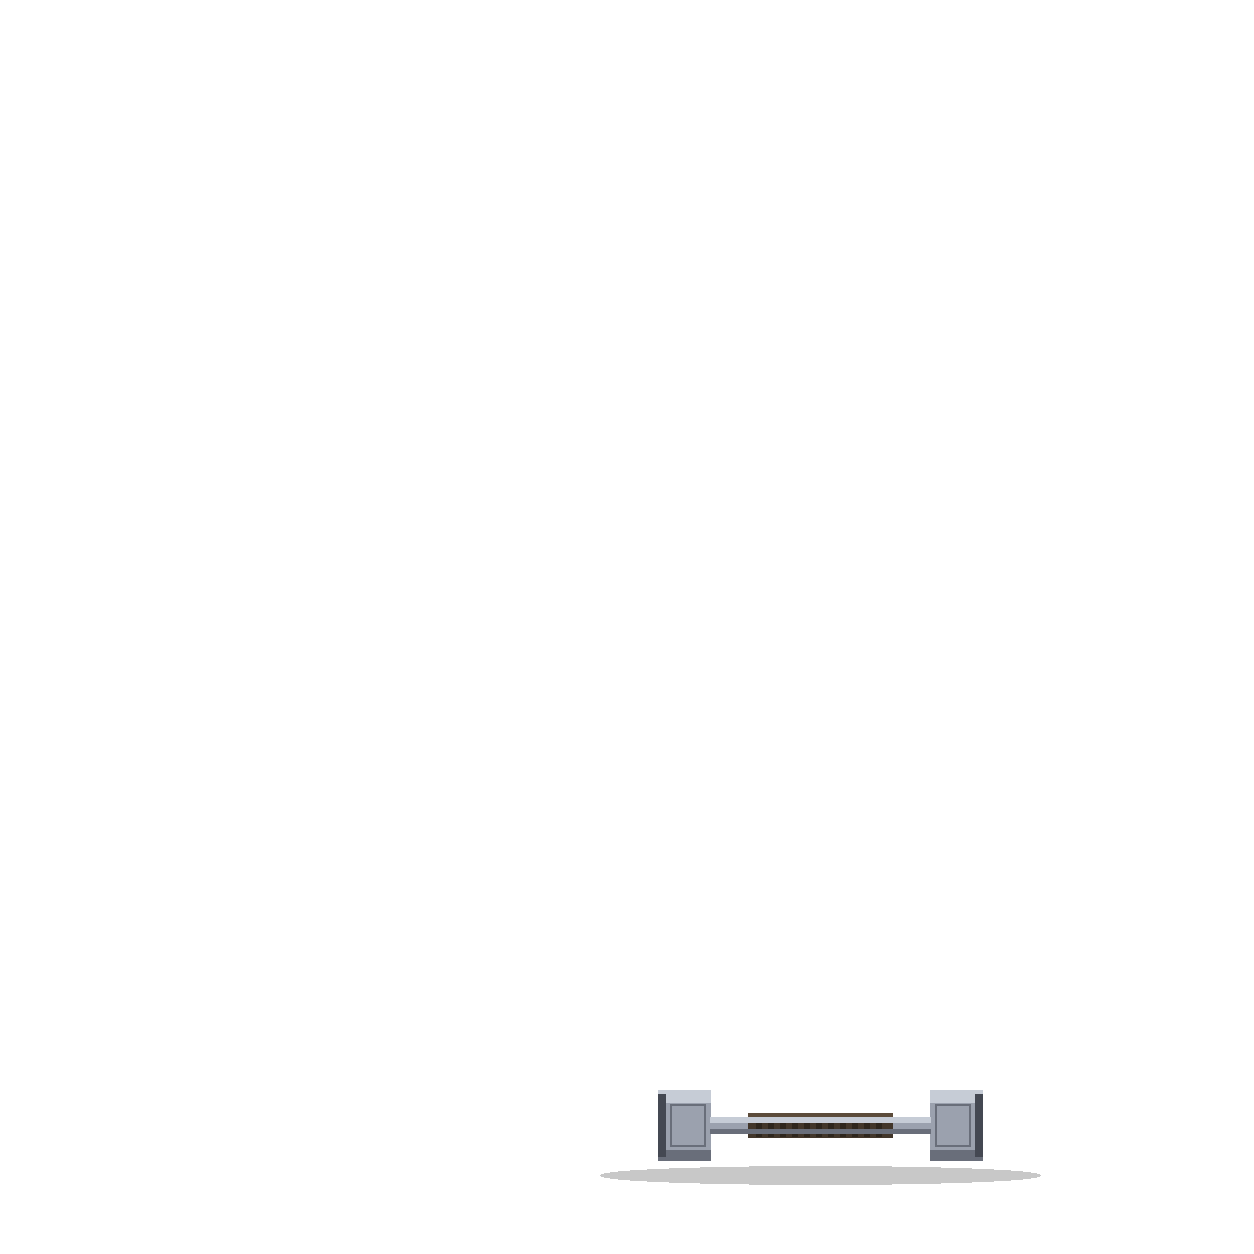
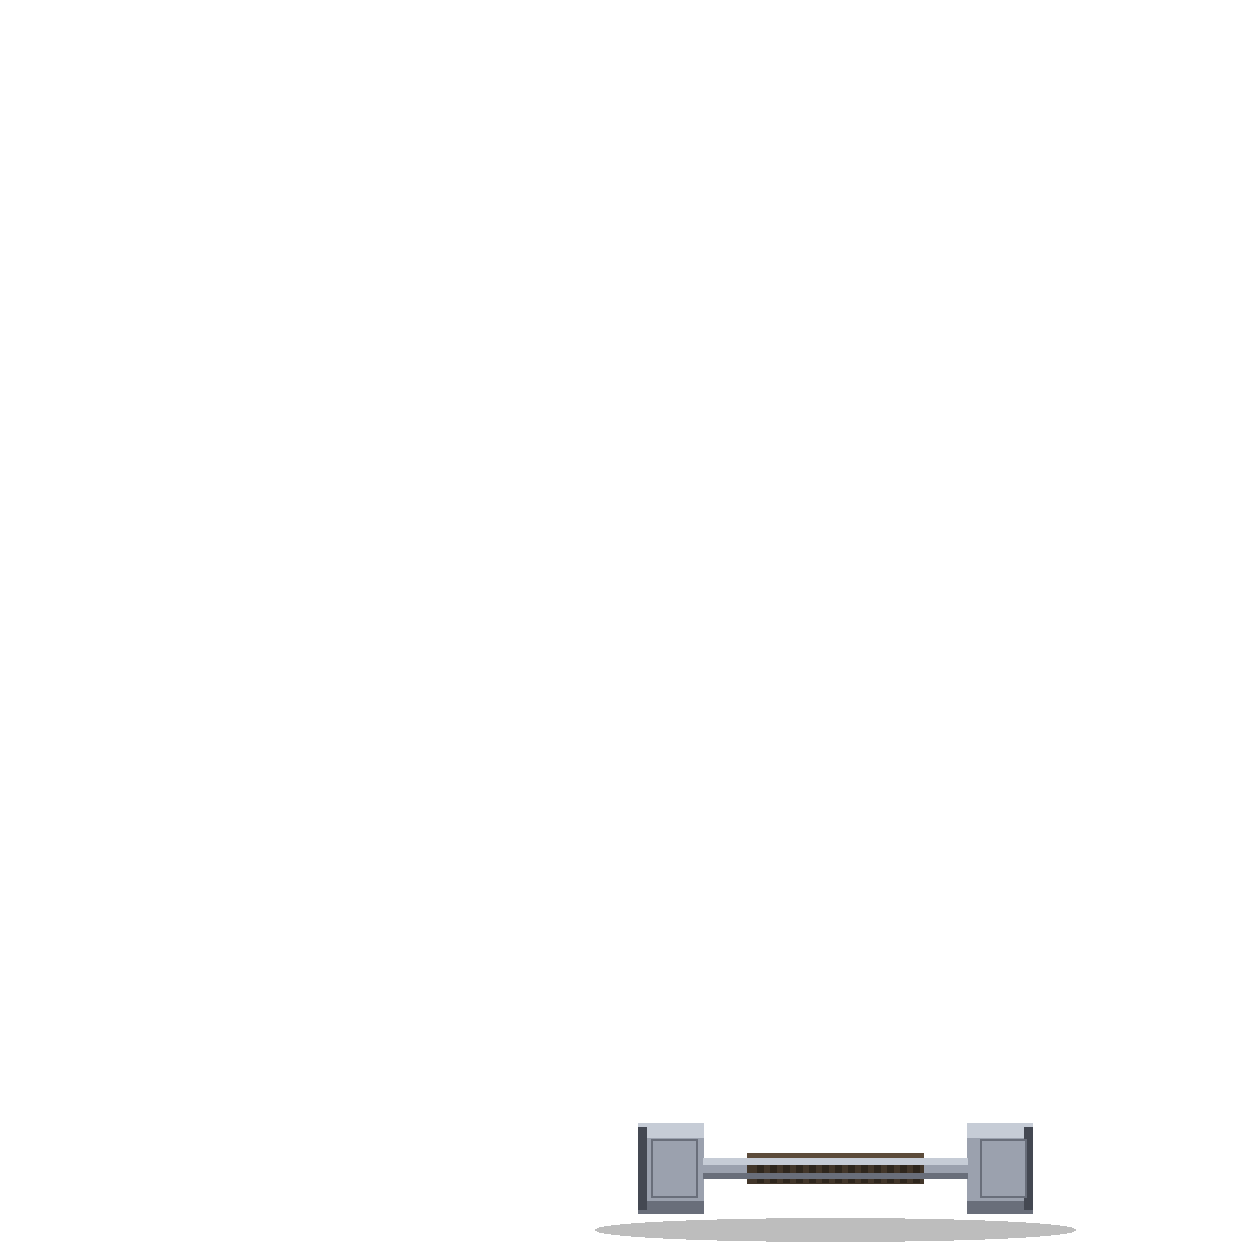
Haltère repositionnée + Easter egg runes
- weapon-haltere : déplacée plus bas (cy=1168 vs 1125) et agrandie (DISC_H=90, BAR_HALF=132) — plus au sol, ne chevauche plus le pied
- Shop : 5 taps sur le solde → +2000 ◈ (flash glow de confirmation)

Changed region(s): [[0.4665, 0.8708, 0.8708, 0.9952]]

diff --git a/src/screens/Shop.jsx b/src/screens/Shop.jsx
@@ -1,4 +1,4 @@
-import { useState } from 'react'
+import { useState, useRef } from 'react'
 import { AnimatePresence, motion } from 'motion/react'
 import { Check, X, ShoppingBag } from 'lucide-react'
 import ConfirmModal from '../components/ui/ConfirmModal'
@@ -9,6 +9,7 @@ import {
   buyCosmetic,
   equipCosmetic,
   unequipCosmetic,
+  addRunes,
 } from '../storage/player'
 import { RUNE_SYMBOL } from '../domain/economy'
 
@@ -145,7 +146,25 @@ export default function Shop() {
   const [player, setPlayer] = useState(loadPlayer)
   const [pendingBuy, setPendingBuy] = useState(null)
   const [selectedItem, setSelectedItem] = useState(null)
+  const [tapCount, setTapCount] = useState(0)
+  const [forgeFlash, setForgeFlash] = useState(false)
+  const tapTimer = useRef(null)
   const balance = getBalance(player)
+
+  const handleBalanceTap = () => {
+    clearTimeout(tapTimer.current)
+    const next = tapCount + 1
+    if (next >= 5) {
+      addRunes(2000)
+      setPlayer(loadPlayer())
+      setTapCount(0)
+      setForgeFlash(true)
+      setTimeout(() => setForgeFlash(false), 800)
+    } else {
+      setTapCount(next)
+      tapTimer.current = setTimeout(() => setTapCount(0), 1500)
+    }
+  }
 
   const confirmBuy = () => {
     if (!pendingBuy) return
@@ -171,9 +190,17 @@ export default function Shop() {
         <h1 className="mt-3 font-display text-4xl uppercase tracking-[0.15em] text-cream sm:text-5xl sm:tracking-[0.2em]">
           Atelier
         </h1>
-        <p className="mt-4 font-display text-2xl tracking-wider text-ember">
+        <button
+          type="button"
+          onClick={handleBalanceTap}
+          className={`mt-4 font-display text-2xl tracking-wider transition-colors ${forgeFlash ? 'text-glow' : 'text-ember'}`}
+          aria-label="Solde de runes"
+        >
           {RUNE_SYMBOL} {balance}
-        </p>
+          {forgeFlash && (
+            <span className="ml-2 text-sm uppercase tracking-[0.2em] text-glow">+2000</span>
+          )}
+        </button>
       </header>
 
       <div className="mt-10 space-y-8">